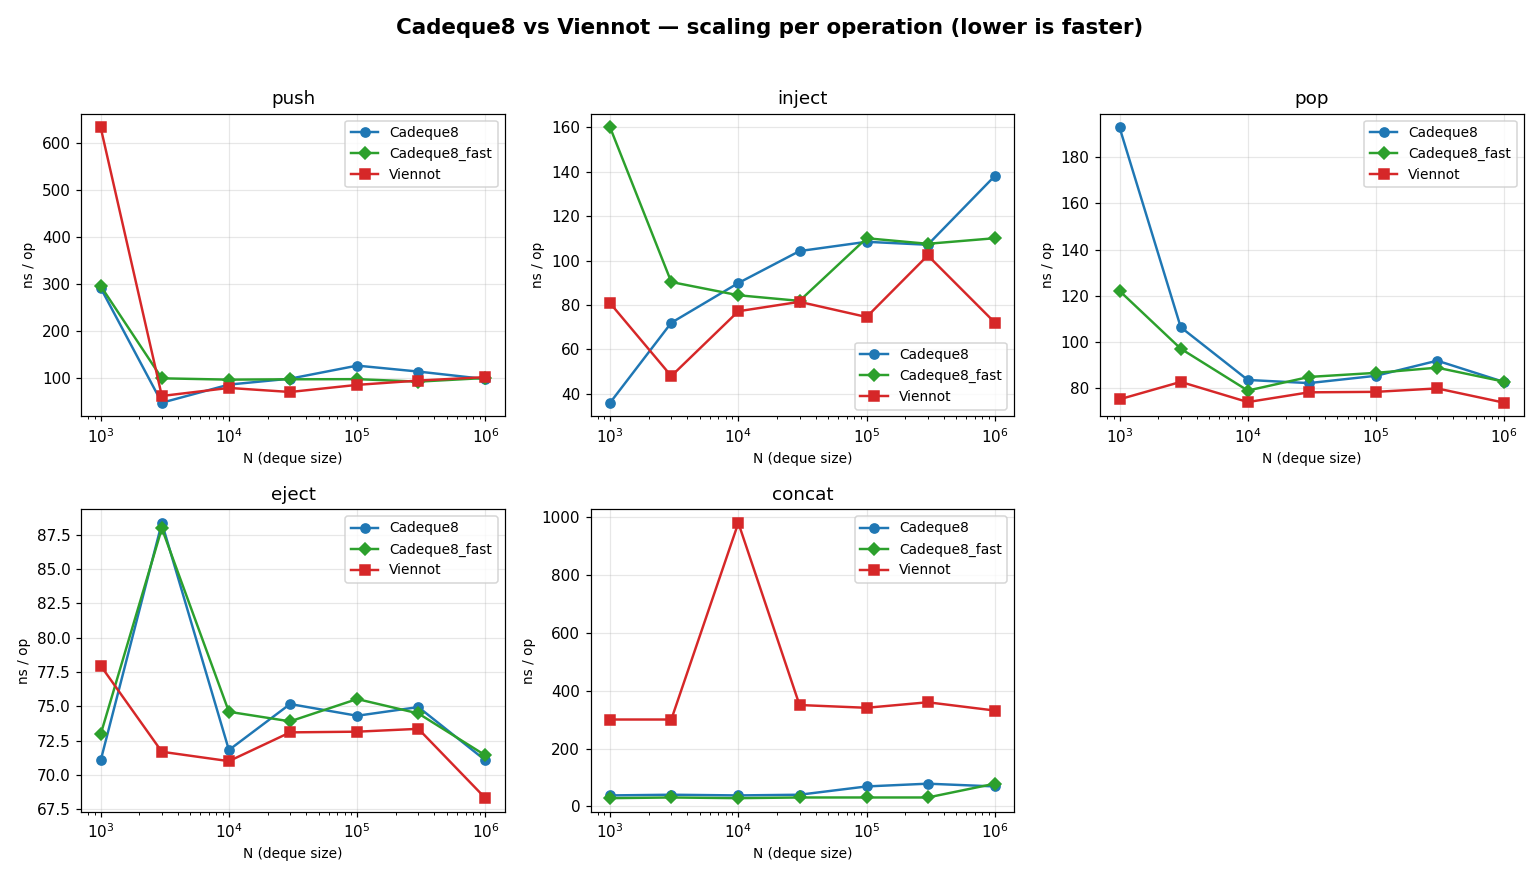
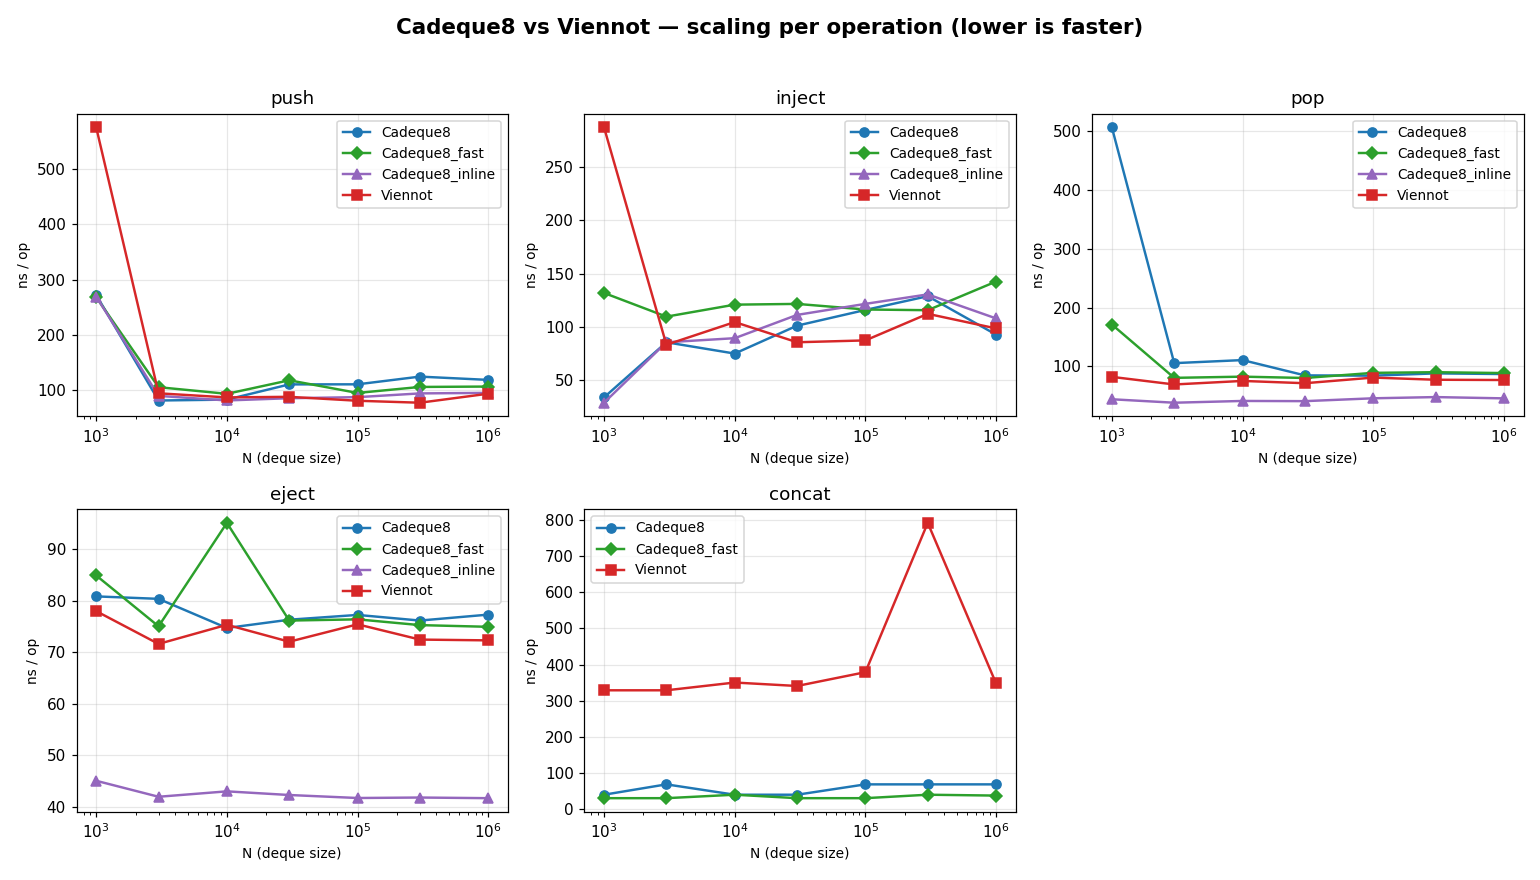
Cadeque8: kcad8_pop/eject_inline beat Viennot by ~1.8x
Mirrors the inline treatment to pop/eject.  The two hot paths now
sit in [KCadeque8Inline.ml] alongside push/inject; each one is a
single intra-module function that does NOT go through
[KCadequeShim.buf6_pop] / [buf6_eject].

## What the fused path actually saves

[buf6_pop b] in the steady-state [Plain c] branch allocates:
  - [KTDeque.PopOk (e, c')]               (unboxed sum, no alloc)
  - [Coq_E.to_list e] singleton cons cell (2 words / op)
  - [Some (x, b')] option box             (3 words / op)
  - [(x, b')] tuple                       (3 words / op)
  - [Plain c']                            (2 words / op)
Total: 10 words PER POP just on result plumbing, on top of the
work the chain pop itself does.

The fused [kcad8_pop_inline]:
  - destructures [ExistT (lvl, payload)] inline (skip [Coq_E.to_list])
  - reads [payload] via [Obj.magic] when [lvl = 0] (steady state)
  - returns [PopOk8 (x, k')] directly without the [option] wrap
  - inspects [c'] via [chain_is_empty] (a 1-constructor pattern
    match on [KEnding B0]) instead of a second [pop_kt4]

The K8Triple-with-Plain-h hot path follows the same pattern.  Any
other branch (Spilled, [lvl > 0], [XStored8], empty after pop in
K8Triple) falls back to [kcad8_pop_fast] — these are the slow
paths the algorithm is designed to make rare.

## Rocq side (Cadeque8/OpsFast.v)

Adds:

  Definition kcad8_pop_inline   := kcad8_pop_fast.
  Definition kcad8_eject_inline := kcad8_eject_fast.
[…]

diff --git a/bench/plot_cadeque8.py b/bench/plot_cadeque8.py
@@ -24,16 +24,18 @@ matplotlib.use("Agg")
 import matplotlib.pyplot as plt
 
 COLORS = {
-    "Cadeque8":      "#1f77b4",   # blue
-    "Cadeque8_fast": "#2ca02c",   # green
-    "Viennot":       "#d62728",   # red
+    "Cadeque8":        "#1f77b4",   # blue
+    "Cadeque8_fast":   "#2ca02c",   # green
+    "Cadeque8_inline": "#9467bd",   # purple
+    "Viennot":         "#d62728",   # red
 }
 MARKERS = {
-    "Cadeque8":      "o",
-    "Cadeque8_fast": "D",
-    "Viennot":       "s",
+    "Cadeque8":        "o",
+    "Cadeque8_fast":   "D",
+    "Cadeque8_inline": "^",
+    "Viennot":         "s",
 }
-IMPLS = ["Cadeque8", "Cadeque8_fast", "Viennot"]
+IMPLS = ["Cadeque8", "Cadeque8_fast", "Cadeque8_inline", "Viennot"]
 
 
 def read_csv(path):
@@ -149,7 +151,7 @@ def plot_summary(data, out_path):
         fontsize=12, fontweight="bold")
 
     x = list(range(len(ops)))
-    width = 0.27
+    width = 0.21
 
     vals_by_impl = {impl: [] for impl in IMPLS}
     for op in ops:
@@ -157,10 +159,14 @@ def plot_summary(data, out_path):
             pts = dict(data.get(op, {}).get(impl, []))
             vals_by_impl[impl].append(pts.get(biggest_n, 0))
 
-    offsets = {"Cadeque8": -width, "Cadeque8_fast": 0, "Viennot": width}
-    labels  = {"Cadeque8":      "Cadeque8 (verified, option-typed)",
-               "Cadeque8_fast": "Cadeque8_fast (verified, flat sum)",
-               "Viennot":       "Viennot OCaml (hand-written ref)"}
+    offsets = {"Cadeque8":        -1.5 * width,
+               "Cadeque8_fast":   -0.5 * width,
+               "Cadeque8_inline":  0.5 * width,
+               "Viennot":          1.5 * width}
+    labels  = {"Cadeque8":        "Cadeque8 (verified, option-typed)",
+               "Cadeque8_fast":   "Cadeque8_fast (verified, flat sum)",
+               "Cadeque8_inline": "Cadeque8_inline (verified, fused hot path)",
+               "Viennot":         "Viennot OCaml (hand-written ref)"}
     for impl in IMPLS:
         ax.bar([xi + offsets[impl] for xi in x],
                vals_by_impl[impl], width,